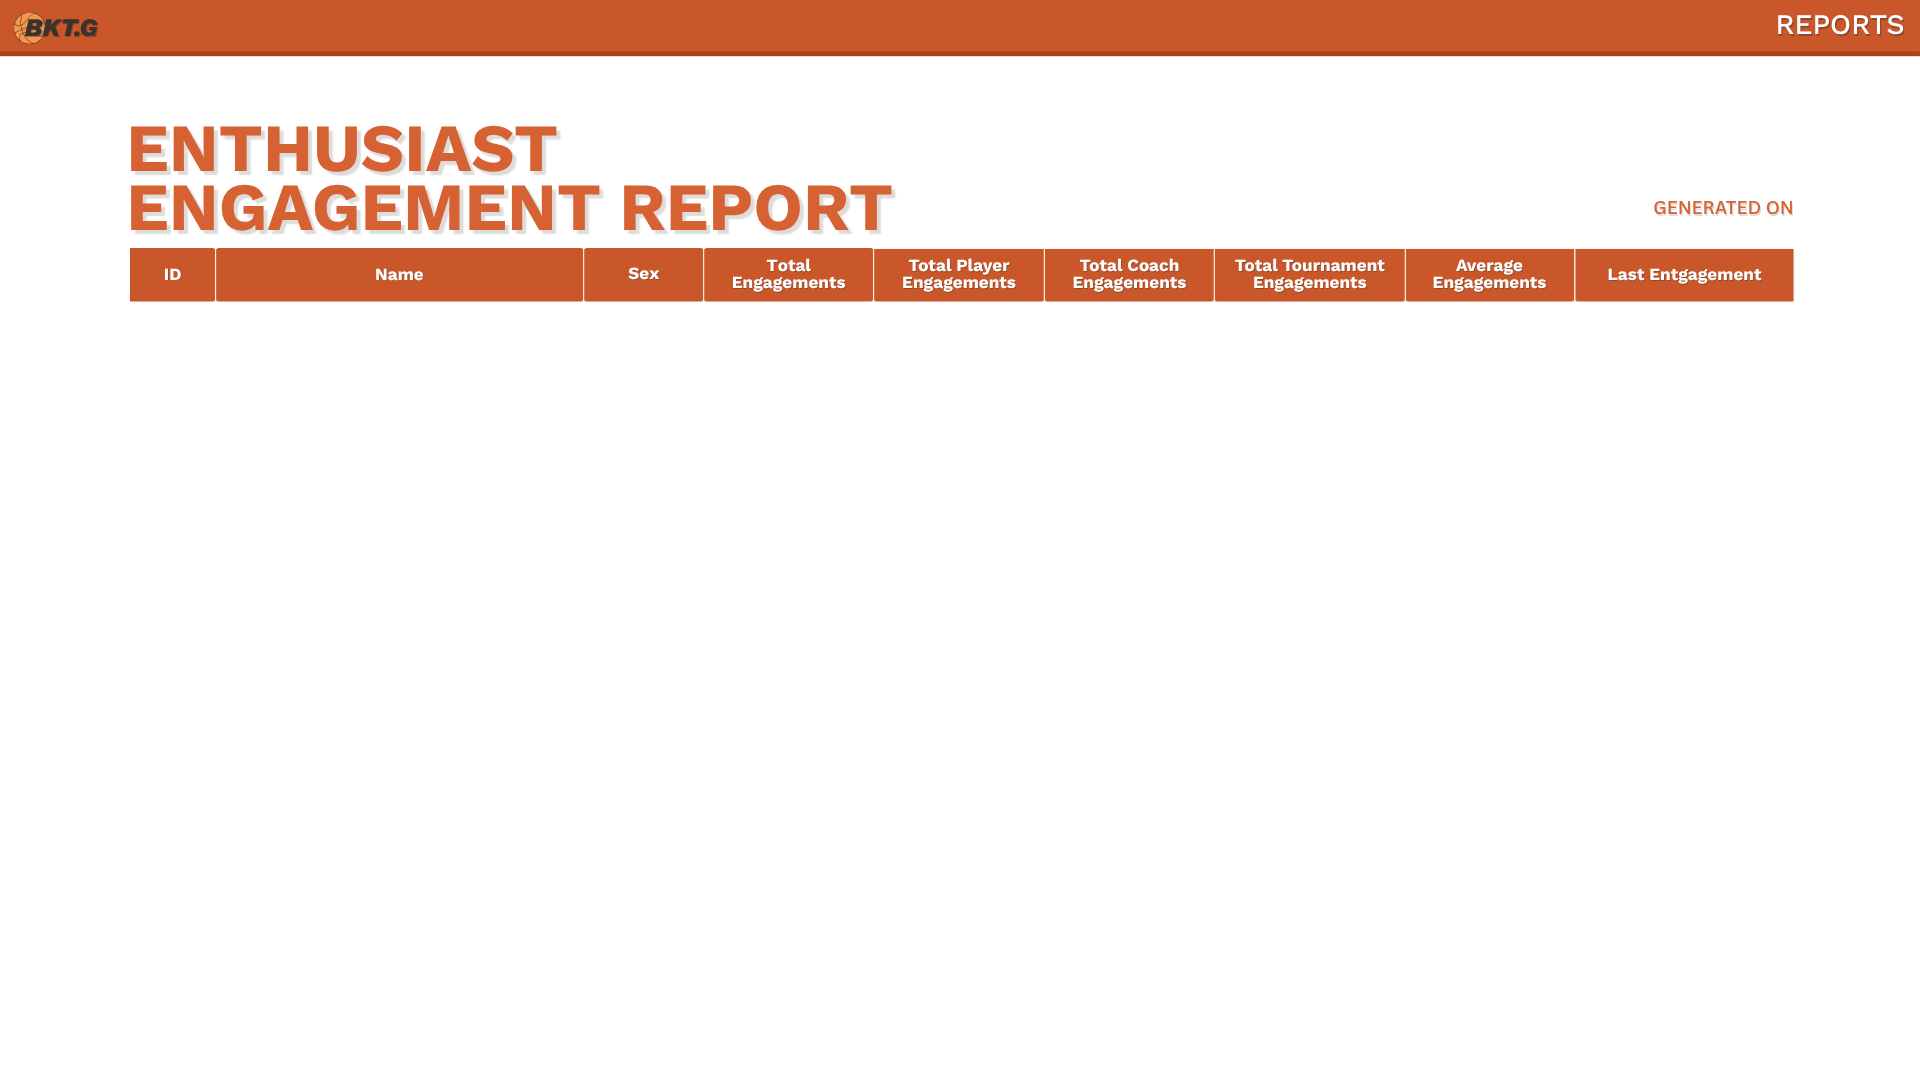
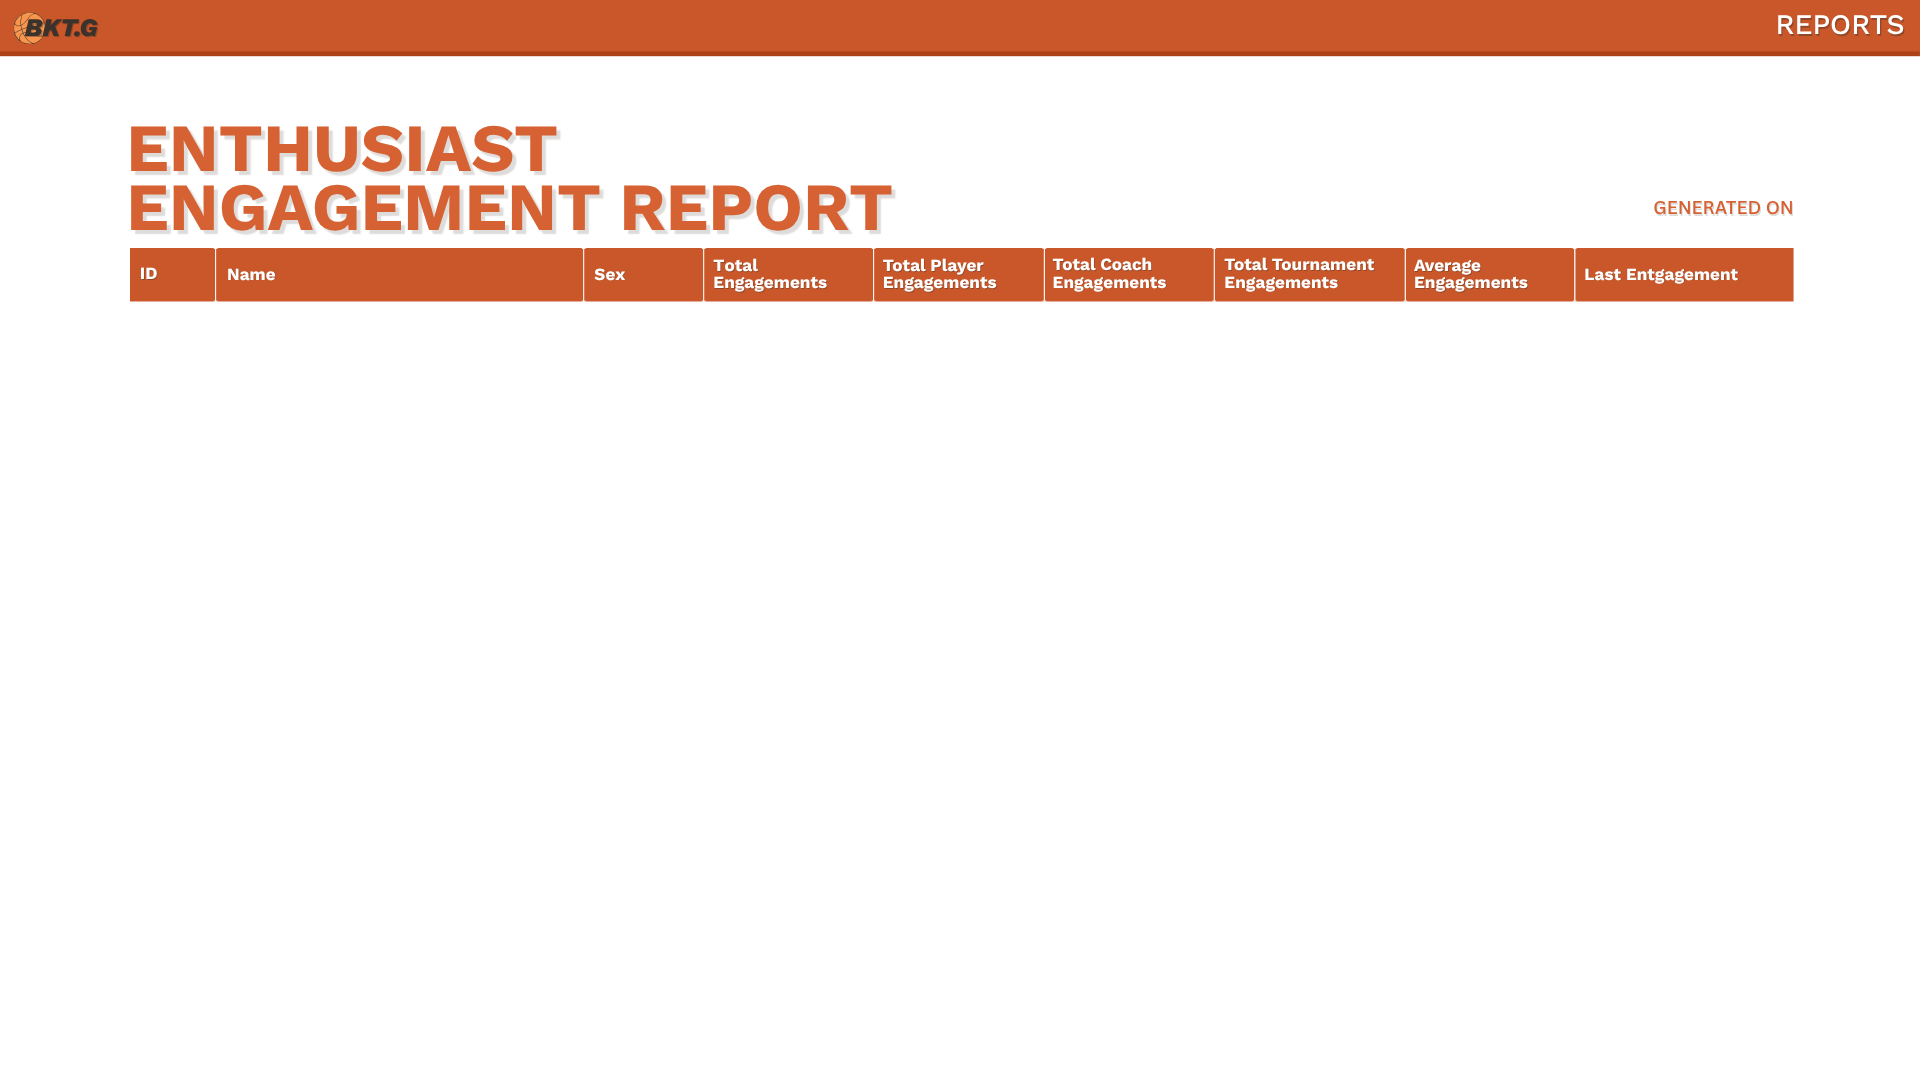
feat: implement report generation

diff --git a/src/model/EngagementManagement.java b/src/model/EngagementManagement.java
@@ -319,5 +319,156 @@ public class EngagementManagement {
 
 		return feed;
 	}
+
+	//report functions
+	public int getTotalEngagement(int ID) {
+		String sql =
+			"SELECT COUNT(*) AS total_engagement " + 
+			"FROM engagement e " + 
+			"WHERE e.enthusiast_id = ? " +
+			"AND e.status = true";
+
+		try(Connection conn = DatabaseConnection.getConnection();
+			PreparedStatement statement = conn.prepareStatement(sql, Statement.RETURN_GENERATED_KEYS)) {
+			statement.setInt(1, ID);
+			ResultSet rs = statement.executeQuery();
+
+			if(rs.next())
+				return rs.getInt("total_engagement");
+			else
+				return 0;
+		} catch(SQLException e) {
+			e.printStackTrace();
+			return -1;
+		}
+	}
+
+
+	public int getTotalPlayerEngagement(int ID) {
+		String sql =
+			"SELECT COUNT(*) AS total_player_engagement " +
+			"FROM engagement e " + 
+			"JOIN engagement_player ep ON e.engagement_id = ep.engagement_id " + 
+			"WHERE e.enthusiast_id = ? " +
+			"AND e.status = true";
+
+		try(Connection conn = DatabaseConnection.getConnection();
+			PreparedStatement statement = conn.prepareStatement(sql, Statement.RETURN_GENERATED_KEYS)) {
+			statement.setInt(1, ID);
+			ResultSet rs = statement.executeQuery();
+
+			if(rs.next())
+				return rs.getInt("total_player_engagement");
+			else
+				return 0;
+		} catch(SQLException e) {
+			e.printStackTrace();
+			return -1;
+		}
+	}	
+
+	public int getTotalCoachEngagement(int ID) {
+		String sql =
+			"SELECT COUNT(*) AS total_coach_engagement " +
+			"FROM engagement e " + 
+			"JOIN engagement_coach ep ON e.engagement_id = ep.engagement_id " + 
+			"WHERE e.enthusiast_id = ?";
+		
+		try(Connection conn = DatabaseConnection.getConnection();
+			PreparedStatement statement = conn.prepareStatement(sql, Statement.RETURN_GENERATED_KEYS)) {
+			statement.setInt(1, ID);
+			ResultSet rs = statement.executeQuery();
+
+			if(rs.next())
+				return rs.getInt("total_coach_engagement");
+			else
+				return 0;
+		} catch(SQLException e) {
+			e.printStackTrace();
+			return -1;
+		}
+	}	
+
+	public int getTotalTournamentEngagement(int ID) {
+		String sql =
+			"SELECT COUNT(*) AS total_tournament_engagement " +
+			"FROM engagement e " + 
+			"JOIN engagement_tournament ep ON e.engagement_id = ep.engagement_id " + 
+			"WHERE e.enthusiast_id = ?";
+
+		try(Connection conn = DatabaseConnection.getConnection();
+			PreparedStatement statement = conn.prepareStatement(sql, Statement.RETURN_GENERATED_KEYS)) {
+			statement.setInt(1, ID);
+			ResultSet rs = statement.executeQuery();
+
+			if(rs.next())
+				return rs.getInt("total_tournament_engagement");
+			else
+				return 0;
+		} catch(SQLException e) {
+			e.printStackTrace();
+			return -1;
+		}
+	}	
+
+	public int getAvgEngagements(int ID) {
+		String sql =
+			"SELECT AVG(cnt) AS avg_engagements " +
+			"FROM ( " +
+				"SELECT COUNT(*) AS cnt " + 
+				"FROM engagement e " +
+				"JOIN engagement_player ep ON e.engagement_id = ep.engagement_id " +
+				"WHERE e.enthusiast_id = ? " +
+
+				 "UNION ALL " +
+
+				 "SELECT COUNT(*) " +
+				 "FROM engagement e " +
+				 "JOIN engagement_coach ec ON e.engagement_id = ec.engagement_id " +
+				 "WHERE e.enthusiast_id = ? " +
+				 "UNION ALL " +
+				 "SELECT COUNT(*) " +
+				 "FROM engagement e " +
+				 "JOIN engagement_tournament et ON e.engagement_id = et.engagement_id " +
+				 "WHERE e.enthusiast_id = ? " +
+			") AS sub";
+
+		try(Connection conn = DatabaseConnection.getConnection();
+			PreparedStatement statement = conn.prepareStatement(sql, Statement.RETURN_GENERATED_KEYS)) {
+			statement.setInt(1, ID);
+			statement.setInt(2, ID);
+			statement.setInt(3, ID);
+			ResultSet rs = statement.executeQuery();
+
+			if(rs.next())
+				return rs.getInt("avg_engagements");
+			else
+				return 0;
+		} catch(SQLException e) {
+			e.printStackTrace();
+			return -1;
+		}
+	}
+
+	public String getLastEngagement(int ID) {
+		String sql = 
+			"SELECT MAX(e.created_at) AS last_engagement " +
+			"FROM engagement e " + 
+			"WHERE e.enthusiast_id = ? "; 
+
+		try(Connection conn = DatabaseConnection.getConnection();
+			PreparedStatement statement = conn.prepareStatement(sql, Statement.RETURN_GENERATED_KEYS)) {
+			statement.setInt(1, ID);
+			ResultSet rs = statement.executeQuery();
+
+			if(rs.next())
+				return rs.getString("last_engagement") == null ? "N/A" : rs.getString("last_engagement");
+			else
+				return "N/A";
+		} catch(SQLException e) {
+			e.printStackTrace();
+			return "N/A";
+		}
+	}
 }
 

diff --git a/src/view/GUIAdminView.java b/src/view/GUIAdminView.java
@@ -612,11 +612,14 @@ public class GUIAdminView {
 		creationDate.setFont(creationDate.getFont().deriveFont(20f));
 		creationDate.setForeground(new Color(213,98,51));
 
+		/*
 		String[][] data = {
 			 {"a1", "b1", "c1", "a2", "b2", "c2", "a3", "b3", "c3"},
 			 {"a4", "b4", "c4", "a5", "b5", "c5", "a6", "b6", "c6"},
 			 {"a7", "b7", "c7", "a8", "b8", "c8", "a9", "b9", "c9"}
 		};
+		*/
+		String[][] data = controller.generateEnthusiastReport();
 		String[] columns = new String[data[0].length];
 		Arrays.fill(columns, "");
 	
@@ -629,7 +632,7 @@ public class GUIAdminView {
 
 		DefaultTableCellRenderer renderer = new DefaultTableCellRenderer();
 		renderer.setOpaque(false);
-		renderer.setHorizontalAlignment(SwingConstants.CENTER);
+		renderer.setHorizontalAlignment(SwingConstants.LEFT);
 
 
 		for (int i = 0; i < table.getColumnCount(); i++) {
@@ -644,7 +647,7 @@ public class GUIAdminView {
 		scroll.setBounds(129,309,1663,690);
 
 		table.setAutoResizeMode(JTable.AUTO_RESIZE_OFF);
-		table.getColumnModel().getColumn(0).setPreferredWidth(85);
+		table.getColumnModel().getColumn(0).setPreferredWidth(97);
 		table.getColumnModel().getColumn(1).setPreferredWidth(367);
 		table.getColumnModel().getColumn(2).setPreferredWidth(120);
 		table.getColumnModel().getColumn(3).setPreferredWidth(170);
@@ -652,7 +655,7 @@ public class GUIAdminView {
 		table.getColumnModel().getColumn(5).setPreferredWidth(170);
 		table.getColumnModel().getColumn(6).setPreferredWidth(190);
 		table.getColumnModel().getColumn(7).setPreferredWidth(170);
-		table.getColumnModel().getColumn(8).setPreferredWidth(218);
+		table.getColumnModel().getColumn(8).setPreferredWidth(207);
 		table.setRowHeight(40);
 
 		reportsCp.add(scroll);

diff --git a/src/controller/AdminController.java b/src/controller/AdminController.java
@@ -1,6 +1,7 @@
 package controller;
 
 import java.util.LinkedHashMap;
+import java.util.ArrayList;
 import model.*;
 import view.*;
 
@@ -9,6 +10,7 @@ public class AdminController {
 	private GUIAdminView view;
 
 	private EnthusiastManagement enthusiastModel;
+	private EngagementManagement engagementModel;
 
 	public AdminController() {}
 	public AdminController(GUIView prevView, GUIAdminView view) {
@@ -16,6 +18,7 @@ public class AdminController {
 		this.view = view;	
 
 		enthusiastModel = new EnthusiastManagement();
+		engagementModel = new EngagementManagement();
 	}	
 
 	public void handleMenu(String option) {
@@ -124,4 +127,26 @@ public class AdminController {
 
 		return information;
 	}
+
+	public String[][] generateEnthusiastReport() {
+		ArrayList<Enthusiast> enthusiasts = enthusiastModel.getEnthusiasts();
+		String data[][] = new String[enthusiasts.size()][9];
+		int i;
+		for(i = 0; i < enthusiasts.size(); i++) {
+			if(enthusiasts.get(i) == null) { continue; }
+			int id = enthusiasts.get(i).getID();
+			data[i][0] = String.valueOf(id);
+			data[i][1] = enthusiasts.get(i).getFullName();
+			data[i][2] = enthusiasts.get(i).getSex();
+			data[i][3] = String.valueOf(engagementModel.getTotalEngagement(id));  
+			data[i][4] =  String.valueOf(engagementModel.getTotalPlayerEngagement(id));  
+			data[i][5] =  String.valueOf(engagementModel.getTotalCoachEngagement(id));  
+			data[i][6] =  String.valueOf(engagementModel.getTotalTournamentEngagement(id));  
+			data[i][7] =  String.valueOf(engagementModel.getAvgEngagements(id));
+			data[i][8] =  String.valueOf(engagementModel.getLastEngagement(id));
+		}
+
+		return data;
+	}
 }
+
